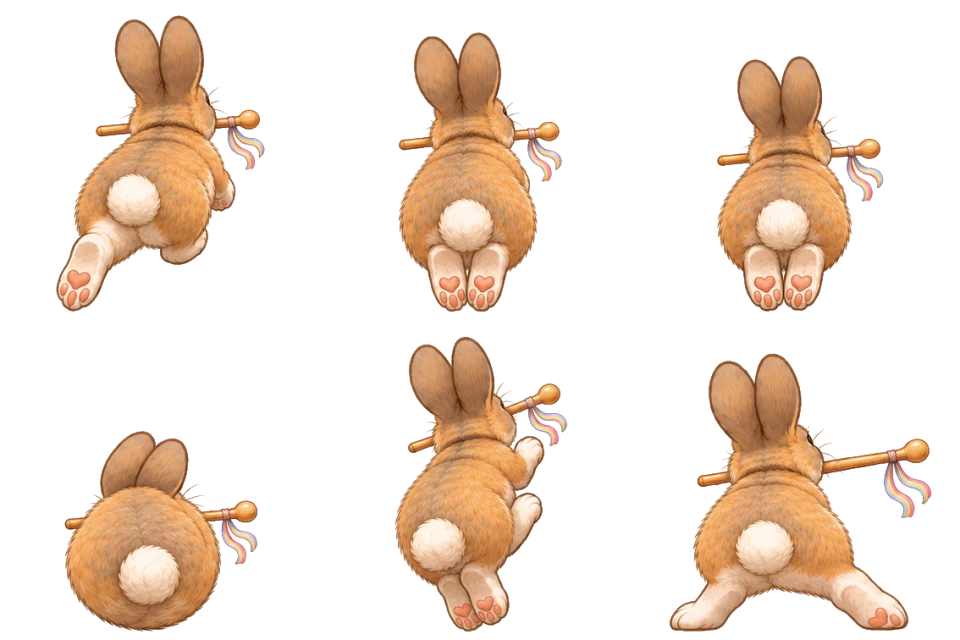
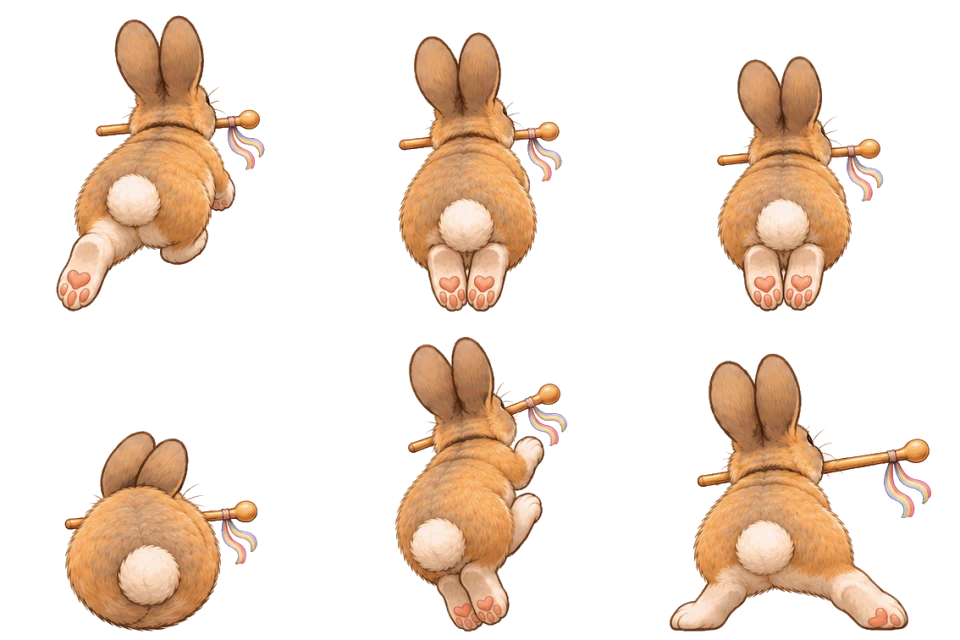
Cours cours Benny ! lot 119 : Benny fidèle à celle du jeu, pose par pose
Mesurées contre la Benny du jeu, les dix poses de la course avaient un
contour trop clair (ΔE 8,5 à 11,9) et l'atterrissage une crème trop
blanche (ΔE 7,2) : chaque pose reprend maintenant le contour et la crème de
la Benny du jeu (tous les écarts sous 5). Durées réglées image par image :
préparation du coup 40 ms puis coup jusqu'à 200 ms, atterrissage d'une
demi-foulée (50 ms au moins), poussée au mur 180 ms. Passation complétée.

diff --git a/src/ui/BennyRunActivity.ts b/src/ui/BennyRunActivity.ts
@@ -11,6 +11,13 @@ const PAINTED: PaintedName[] = ['benny', 'benny-moves', 'dragon', 'creatures', '
 /** Painted Benny's square, in Benny's sizes (her shape was one size tall): the drawing, ears up, fills about four fifths of it. */
 const PAINTED_BENNY = 1.85;
 /** How long each struck creature takes to melt away (ms); a chest stays broken open a little longer. */
+/** How long Benny's passing poses last (ms), checked frame by frame in slow motion on 13 Nov.: the wind-up only just before the
+ *  swing (the strike's points and rainbow sweep are already there), the swing as long as its sweep (220 ms), the push off onto a
+ *  wall while she tips towards it. */
+const POSE_MS = {windup: 40, strike: 200, push: 180};
+/** The landing pose lasts half a stride (a stride every 1.6 m: 73 ms at the start, 33 at top speed), three frames at least, so her
+ *  paws never stop while the road runs on. */
+const landHold = (g: {speed: number}) => Math.max(50, .8 / Math.max(1, g.speed) * 1000);
 const GHOST_MS: Partial<Record<string, number>> = {chest: 520, dragonnet: 420, ember: 380, flyer: 400};
 /** A dragonnet wakes up this close to Benny (m). */
 const DRAGONNET_WAKES = 7;
@@ -944,12 +951,12 @@ export function mountBennyRunActivity(host: HTMLElement, options: {
     // Painted: her pose for the moment (the wall pose leans onto a wall on her right, mirrored for the left one; the strike swings
     // her wand the way she moved), standing on her feet.
     if (art.benny.ready) {
-      const pose = flat ? 'roll' : wall ? 'wall' : inAir(g) || powerActive(g, 'flight') ? 'jump' : swing && now - swing.at < 180 ? 'strike' : Math.sin(stride) > 0 ? 'run-1' : 'run-2';
+      const pose = flat ? 'roll' : wall ? 'wall' : inAir(g) || powerActive(g, 'flight') ? 'jump' : swing && now - swing.at < POSE_MS.strike ? 'strike' : Math.sin(stride) > 0 ? 'run-1' : 'run-2';
       const mirror = wall ? wall.side === 'left' : pose === 'strike' && g.lane < g.laneFrom;
       // The wind-up of a strike, the landing and the fall have their own painted poses (sheet of 13 Nov.).
-      const moves: string | null = g.fallFrom !== null ? 'fall' : wall && g.at - (wall.since ?? g.at) < 180 ? 'push' : swing && now - swing.at < 80 && !wall && !flat && !inAir(g) ? 'windup' : land > .25 && !wall && !flat && !inAir(g) ? 'land' : null;
+      const moves: string | null = g.fallFrom !== null ? 'fall' : wall && g.at - (wall.since ?? g.at) < POSE_MS.push ? 'push' : swing && now - swing.at < POSE_MS.windup && !wall && !flat && !inAir(g) ? 'windup' : now - landedAt < landHold(g) && !wall && !flat && !inAir(g) ? 'land' : null;
       // Pushing off onto a wall she tips over towards it, into her wall-running lean.
-      if (moves === 'push' && wall) c.rotate((wall.side === 'left' ? -1 : 1) * .3 * Math.min(1, (g.at - (wall.since ?? g.at)) / 180));
+      if (moves === 'push' && wall) c.rotate((wall.side === 'left' ? -1 : 1) * .3 * Math.min(1, (g.at - (wall.since ?? g.at)) / POSE_MS.push));
       if (moves) paint(c, 'benny-moves', moves, 0, h / 2, s * PAINTED_BENNY, mirror);
       else paint(c, 'benny', pose, 0, flat ? h * .45 : h / 2, s * PAINTED_BENNY * (flat ? .8 : 1), mirror);
     } else {

diff --git a/docs/passation-2026-11-13-cours-benny.md b/docs/passation-2026-11-13-cours-benny.md
@@ -2,6 +2,8 @@
 
 Pour l'agent qui reprend le mini-jeu. Lire d'abord `AGENTS.md`, puis `docs/passation-2026-11-12-cours-benny.md` (règles, fichiers, commandes), puis ce fichier. Ce fichier remplace la section « Ce qui reste à faire » de la passation du 12 novembre.
 
+> **Mise à jour (lots 114 à 119)** : les trois objectifs sont faits ; voir la section 7, qui remplace la section 2 pour l'état actuel.
+
 ## 1. Où en est le chantier
 
 - **Branche** : `feature/cours-benny`, dernier commit `c1d7814` (lot 113). Arbre dédié : `.claude/worktrees/cours-benny`.
@@ -72,3 +74,44 @@ Pour l'agent qui reprend le mini-jeu. Lire d'abord `AGENTS.md`, puis `docs/passa
 3. Décor peint de la piste (textures, murs, bord du vide), contrôle de lisibilité.
 4. Retour sur Benny : vérification au ralenti de chaque transition, comparaison de fidélité pose par pose, réglage des durées.
 5. Interface et confort, puis tests de qualité complets.
+
+## 7. Suite du 13 novembre : lots 114 à 119
+
+### Objectif 1 — Benny (lots 115 et 119)
+- **Fidélité, pose par pose**, contre la Benny du jeu (`public/assets/rabbits/benny/benny-v1.png`). Écarts de couleur en ΔE (sous 5 : à peine visible).
+  - Avant : pelage fidèle (0,4 à 2,2), mais contour trop clair sur les dix poses (8,5 à 11,9 ; brun `#82512c` contre `#693f26`) et crème de l'atterrissage trop blanche (7,2).
+  - Correction dans `scripts/prepare-benny-run-art.mjs` (`matchBenny`) : chaque pose reprend le contour et la crème de la Benny du jeu.
+  - Après :
+
+| Pose | ΔE pelage | ΔE crème | ΔE contour |
+|---|---|---|---|
+| run-1 | 0,9 | 1,4 | 2,9 |
+| run-2 | 0,5 | 1,4 | 4,2 |
+| jump | 1,1 | 1,7 | 2,6 |
+| roll | 1,1 | 0,0 | 3,7 |
+| wall | 0,9 | 0,5 | 3,4 |
+| strike | 1,2 | 0,0 | 2,8 |
+| windup | 1,6 | 0,5 | 2,5 |
+| land | 3,0 | 0,9 | 2,7 |
+| fall | 1,2 | 0,5 | 3,7 |
+| push | 1,5 | 1,0 | 3,3 |
+
+- **Durées** (`POSE_MS` et `landHold` dans `src/ui/BennyRunActivity.ts`), relevées image par image à 60 images par seconde :
+  - frappe : préparation 40 ms (avant : 80 ms, alors que les points et l'arc-en-ciel étaient déjà là), coup jusqu'à 200 ms, comme l'arc (220 ms). Frise : `windup×2 strike×10` ;
+  - atterrissage : une demi-foulée (une foulée tous les 1,6 m), 50 ms au moins. Avant : environ 112 ms, soit plus de trois images de course figées à pleine vitesse. Frise : `land×5` à 11 m/s, `land×3` à 24 m/s ;
+  - poussée au départ d'un mur : 180 ms, pendant lesquelles Benny bascule peu à peu vers le mur. Frise : `push×10 wall×6`.
+- Chute : Benny descend et rapetisse au-dessus du vide ; la Dragon la rattrape (sa peinture la tient déjà, elle n'est plus dessinée deux fois).
+
+### Objectif 2 — Coffres et créatures (lots 114 et 116)
+- Atlas `chests` (une case par coffre, les morceaux d'une case gardés ensemble) : intact, projeté (il culbute), brisé.
+- Planche `sheet-foes.png` (3 × 3) : dragonnet endormi, réveillé (à 7 m de Benny), étourdi ; braise haute, basse, en fumée ; volant ailes levées, baissées, étourdi.
+- Disparition par type (`vanish`, `GHOST_MS`) : le coffre s'ouvre et saute, le dragonnet culbute, la braise part en fumée, le volant tournoie. Le monstre frappé reste devant Benny le temps de disparaître.
+
+### Objectif 3 — Piste peinte (lots 117 et 118)
+- Textures (`scripts/prepare-benny-run-decor.mjs`, sources dans `output/imagegen/course-decor-final-v1/`) : planches, herbe, mur de terre et d'herbe, mur de pierre, falaise. Le ciel passe en WebP (69 Ko).
+- Rendu : le sol en bandes de profondeur ; les murs en colonnes ; la falaise au bout des trous et des fosses ; une lèvre d'herbe et un flanc de roche là où il n'y a pas de mur (le vide). Le tout est dessiné sur un calque à un pixel par point.
+- Coût mesuré dans Chromium sans carte graphique : 14 ms par image d'abord, 10 ms avec le calque. En temps réel : 60 images par seconde, médiane 16,6 ms, sans retour aux couleurs plates. Si un appareil reste trop lent même en image adoucie, la piste revient d'elle-même aux couleurs plates.
+- Pas encore essayé sur iPhone.
+
+### Validation
+- `npx tsc --noEmit` sans erreur, tests de la course verts, suite complète verte (voir le dernier rapport).
